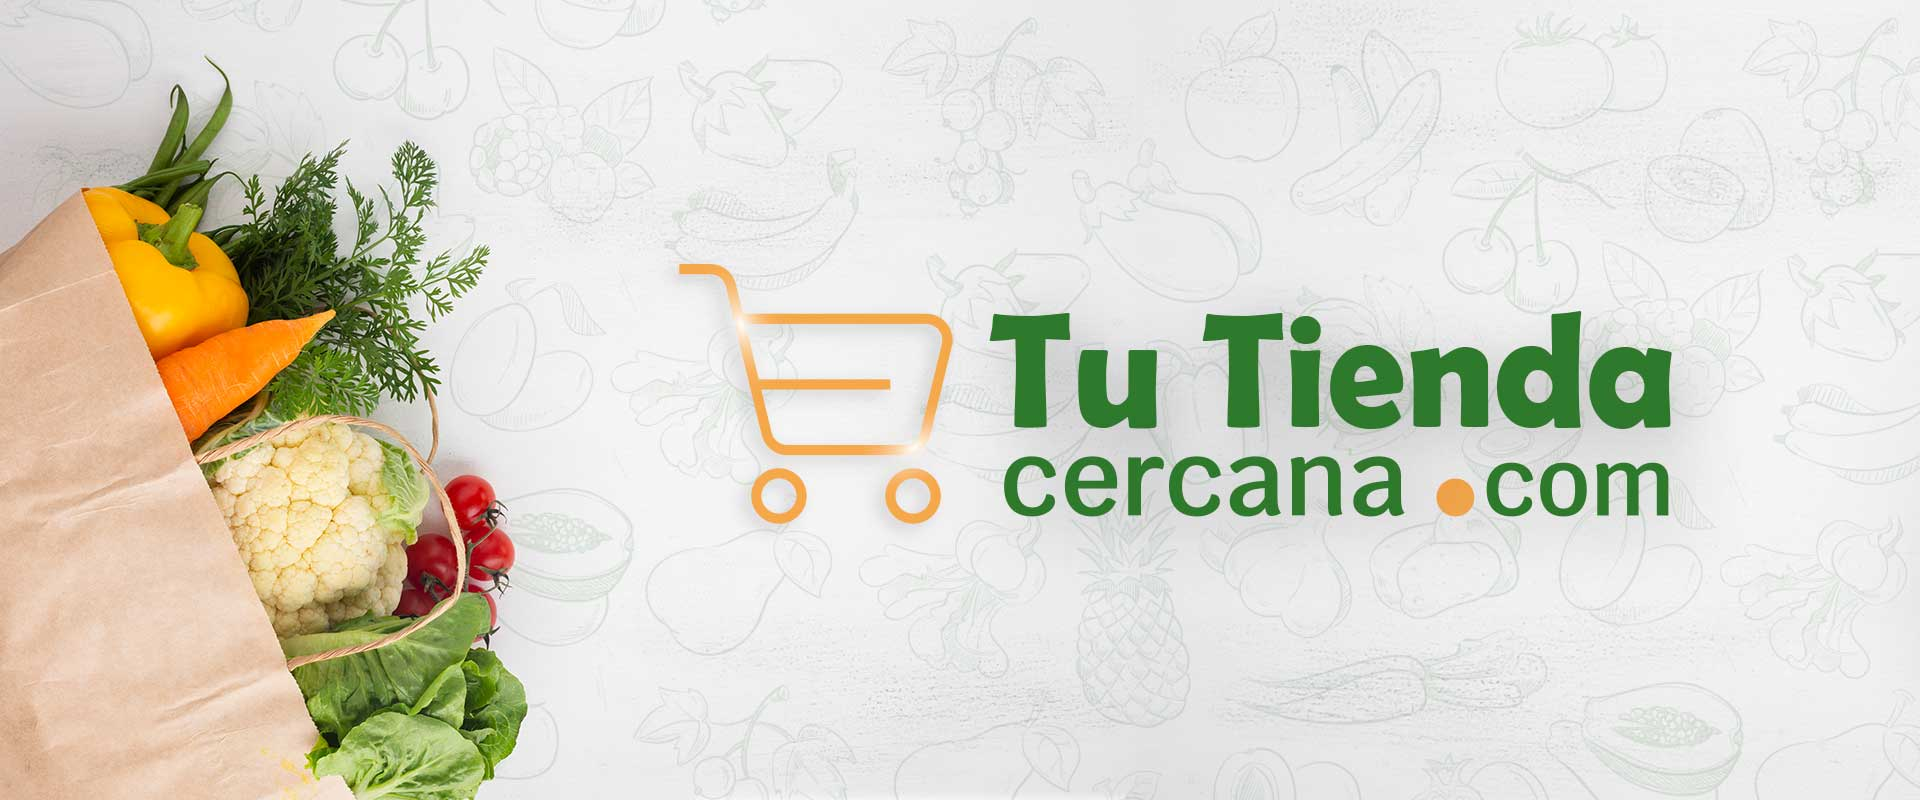
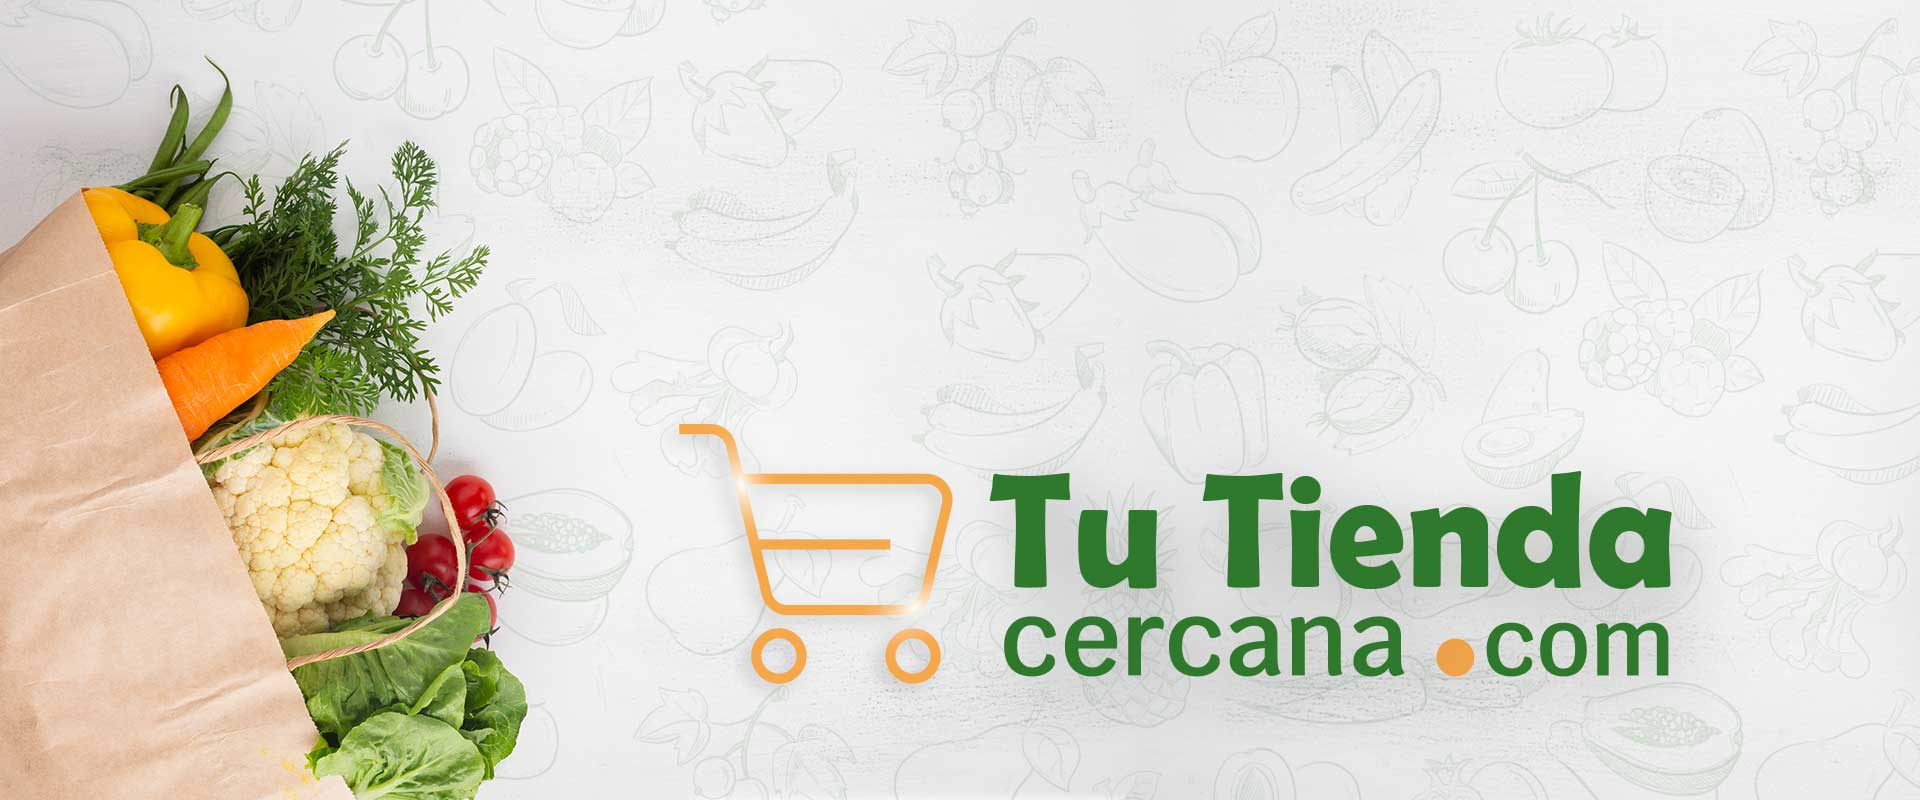
header v2 - slider- search

Changed region(s): [[0.3438, 0.3438, 0.875, 0.875], [0.3438, 0.3125, 0.375, 0.3438]]

diff --git a/semana-1-master/src/index.html b/semana-1-master/src/index.html
@@ -1,11 +1,12 @@
-<!DOCTYPE html>
-<html lang="es">
+<!doctype html>
+<html lang="en">
 
 <head>
-    <meta charset="UTF-8">
-    <meta http-equiv="X-UA-Compatible" content="IE-edge">
-    <meta name="viewport" content="width-device-width, initial-scale=1.0">
-    <title> Mi Tienda Cercana </title>
+    <!-- Required meta tags -->
+    <meta charset="utf-8">
+    <meta name="viewport" content="width=device-width, initial-scale=1">
+
+    <!-- Bootstrap CSS -->
     <link href="https://cdn.jsdelivr.net/npm/bootstrap@5.1.1/dist/css/bootstrap.min.css" rel="stylesheet"
         integrity="sha384-F3w7mX95PdgyTmZZMECAngseQB83DfGTowi0iMjiWaeVhAn4FJkqJByhZMI3AhiU" crossorigin="anonymous">
 
@@ -20,114 +21,98 @@
     <link rel="preconnect" href="https://fonts.gstatic.com" crossorigin>
     <link href="https://fonts.googleapis.com/css2?family=Krub&family=Poppins:wght@600&display=swap" rel="stylesheet">
 
-
-    <!-- Enlazar el html a los estilos -->
-    <link rel="stylesheet" href="css/normalize.css">
-    <link rel="preload" href="css/styles.css" as="styles">
-
-    <link rel="icon" href="img/carrito.svg" type="img/jpeg" />
-    <link rel="stylesheet" href="css/andrea.css">
-    <link rel="stylesheet" href="css/main.css">
-    <link rel="stylesheet" href="css/santi.css">
-    <link rel="stylesheet" href="css/oscar.css">
-    <link rel="stylesheet" href="css/carlos.css">
-    <link rel="stylesheet" href="css/jorge.css">
-
-    <title> Mi Tienda Cercana </title>
-
+    <title>Mi Tienda Cercana</title>
 </head>
 
 <body style="height: 2000px;">
-
-    <header id="header" class="d-flex justify-content-md-center">
+    <header>
         <nav class="navbar fixed-top navbar-expand-lg navbar-dark" style="background-color: #2f7a2c">
-            <div class="container-fluid" id="navbar-container">
+            <div class="container-fluid">
                 <a class="navbar-brand" href="#">
-                    <img class="d-inline-block align-top" src="/semana-1-master/src/img/logo-TTC-01.svg" width="200">
+                    <img img class="d-inline-block align-top" src="/semana-1-master/src/img/logo-TTC-01.svg"
+                        width="200">
                 </a>
-
-                <form action="" class="d-flex">
-                    <input type="text" class="form-control me-4">
-                    <button type="submit" class="btn-ligth">Search</button>
-                </form>
-
-                <button type="button" data-bs-toggle="collapse" data-bs-target="#navbarNav" class="navbar-toggler"
-                    aria-controls="navbarNav" aria-expanded="false" aria-label="Toggle navigation">
-
+                <button class="navbar-toggler" type="button" data-bs-toggle="collapse"
+                    data-bs-target="#navbarSupportedContent" aria-controls="navbarSupportedContent"
+                    aria-expanded="false" aria-label="Toggle navigation">
                     <span class="navbar-toggler-icon"></span>
                 </button>
-
-                <div class="navbar-collapse" id="navbarNav">
-                    <ul class="navbar nav">
+                <div class="collapse navbar-collapse justify-content-end" id="navbarSupportedContent">
+                    <ul class="navbar-nav me-auto mb-2 mb-lg-0">
                         <li class="nav-item">
-                            <a href="#">INICIO</a>
+                            <a class="nav-link active" aria-current="page" href="#">INICIO</a>
                         </li>
 
-                        <li class="nav-item active dropdown">
-                            <a href="#" class="nav-link dropdown-toggle" id="navbarDropdown" role="button"
+                        <li class="nav-item dropdown">
+                            <a class="nav-link dropdown-toggle" href="#" id="navbarDropdown" role="button"
                                 data-bs-toggle="dropdown" aria-expanded="false">
                                 PRODUCTOS
                             </a>
                             <ul class="dropdown-menu" aria-labelledby="navbarDropdown">
-                                <li><a href="#" class="dropdown-item">FRUTAS</a>
-                                </li>
-                                <li><a href="#" class="dropdown-item">VERDURAS</a>
-                                </li>
-                                <li><a href="#" class="dropdown-item">CARNICOS</a>
-                                </li>
-
-
+                                <li><a class="dropdown-item" href="#">FRUTAS</a></li>
+                                <li><a class="dropdown-item" href="#">VERDURAS</a></li>
+                                <li><a class="dropdown-item" href="#">CARNES</a></li>
                             </ul>
                         </li>
-
                         <li class="nav-item">
-                            <a href="#">TIENDAS</a>
+                            <a class="nav-link" href="#">TIENDAS</a>
                         </li>
-
-                        <li class="nav-item">
-                            <a href="#">CONTACTO</a>
-                        </li>
-
-
-
 
                     </ul>
+                    <form class="d-flex">
+                        <input class="form-control me-2" type="search" placeholder="Busca tu producto preferido"
+                            aria-label="Buscar">
+                        <button class="btn" style="background-color: #ffab49" type="submit">Buscar</button>
+                    </form>
                 </div>
             </div>
         </nav>
-
-
-        <div id="carouselExampleInterval" class="carousel slide" data-bs-ride="carousel">
-            <div class="carousel-inner">
-                <div class="carousel-item active" data-bs-interval="10000">
-                    <img src="/semana-1-master/src/img/imagen-header.jpg" class="d-block w-100" alt="...">
-                </div>
-                <div class="carousel-item" data-bs-interval="2000">
-                    <img src="/semana-1-master/src/img/imagen-header-2.jpg" class="d-block w-100" alt="...">
-                </div>
-                <div class="carousel-item">
-                    <img src="/semana-1-master/src/img/imagen-header-3.jpg" class="d-block w-100" alt="...">
-                </div>
-            </div>
-            <button class="carousel-control-prev" type="button" data-bs-target="#carouselExampleInterval"
-                data-bs-slide="prev">
-                <span class="carousel-control-prev-icon" aria-hidden="true"></span>
-                <span class="visually-hidden">Previous</span>
-            </button>
-            <button class="carousel-control-next" type="button" data-bs-target="#carouselExampleInterval"
-                data-bs-slide="next">
-                <span class="carousel-control-next-icon" aria-hidden="true"></span>
-                <span class="visually-hidden">Next</span>
-            </button>
-        </div>
     </header>
 
-    <section id="services"></section>
-    <section id="news"></section>
-    <section id="team"></section>
-    <footer></footer>
+    <div id="carouselExampleIndicators" class="carousel slide" data-bs-ride="carousel">
+        <div class="carousel-indicators">
+            <button type="button" data-bs-target="#carouselExampleIndicators" data-bs-slide-to="0" class="active"
+                aria-current="true" aria-label="Slide 1"></button>
+            <button type="button" data-bs-target="#carouselExampleIndicators" data-bs-slide-to="1"
+                aria-label="Slide 2"></button>
+            <button type="button" data-bs-target="#carouselExampleIndicators" data-bs-slide-to="2"
+                aria-label="Slide 3"></button>
+        </div>
+        <div class="carousel-inner">
+            <div class="carousel-item active">
+                <img src="/semana-1-master/src/img/imagen-header.jpg" class="d-block w-100" alt="...">
+            </div>
+            <div class="carousel-item">
+                <img src="/semana-1-master/src/img/imagen-header-2.jpg" class="d-block w-100" alt="...">
+            </div>
+            <div class="carousel-item">
+                <img src="/semana-1-master/src/img/imagen-header-3.jpg" class="d-block w-100" alt="...">
+            </div>
+        </div>
+        <button class="carousel-control-prev" type="button" data-bs-target="#carouselExampleIndicators"
+            data-bs-slide="prev">
+            <span class="carousel-control-prev-icon" aria-hidden="true"></span>
+            <span class="visually-hidden">Previous</span>
+        </button>
+        <button class="carousel-control-next" type="button" data-bs-target="#carouselExampleIndicators"
+            data-bs-slide="next">
+            <span class="carousel-control-next-icon" aria-hidden="true"></span>
+            <span class="visually-hidden">Next</span>
+        </button>
+    </div>
+
+    <!-- Optional JavaScript; choose one of the two! -->
+
+    <!-- Option 1: Bootstrap Bundle with Popper -->
+    <script src="https://cdn.jsdelivr.net/npm/bootstrap@5.1.1/dist/js/bootstrap.bundle.min.js"
+        integrity="sha384-/bQdsTh/da6pkI1MST/rWKFNjaCP5gBSY4sEBT38Q/9RBh9AH40zEOg7Hlq2THRZ"
+        crossorigin="anonymous"></script>
+
+    <!-- Option 2: Separate Popper and Bootstrap JS -->
+    <!--
+    <script src="https://cdn.jsdelivr.net/npm/@popperjs/core@2.9.3/dist/umd/popper.min.js" integrity="sha384-W8fXfP3gkOKtndU4JGtKDvXbO53Wy8SZCQHczT5FMiiqmQfUpWbYdTil/SxwZgAN" crossorigin="anonymous"></script>
+    <script src="https://cdn.jsdelivr.net/npm/bootstrap@5.1.1/dist/js/bootstrap.min.js" integrity="sha384-skAcpIdS7UcVUC05LJ9Dxay8AXcDYfBJqt1CJ85S/CFujBsIzCIv+l9liuYLaMQ/" crossorigin="anonymous"></script>
+    -->
 </body>
-var myCarousel = document.querySelector('#myCarousel')
-var carousel = new bootstrap.Carousel(myCarousel)
 
 </html>

diff --git a/semana-1-master/src/css/andrea.css b/semana-1-master/src/css/andrea.css
@@ -14,17 +14,11 @@ html{
 box-sizing: inherit;
 }
 
-
-body{
-    font-size: 1rem;
-    font-family:'Krub', sans-serif;;
-    
-}
-
-.custom-toggler.navbar-toggler {
-    background-color:var(--hueso) ;
-    border-width: 5; 
-}
+body {
+    font-family: "poppins", sans-serif;
+    font-size: 1.5rem;
+    padding-top: 100px;
+    }
 
 .nav-item a{
     color: var(--hueso);
@@ -37,24 +31,8 @@ body{
     
 }
 
-.nav-item a:hover{
-    color: var(--amarillo);
-    
-}
-
-.imagen-header{
-    background-image: url(../img/imagen-header.jpg);
-    background-size:cover;
-    background-repeat: no-repeat;
-    position:relative;
-    height: 800px;
-    }
-
-.contenido-imagen-header{
-    display:flex;
-    flex-direction: column;
-    align-items:center;
-    justify-content: center;
-    
+.custom-toggler.navbar-toggler {
+    background-color:var(--hueso) ;
+    border-width: 5; 
 }
 
